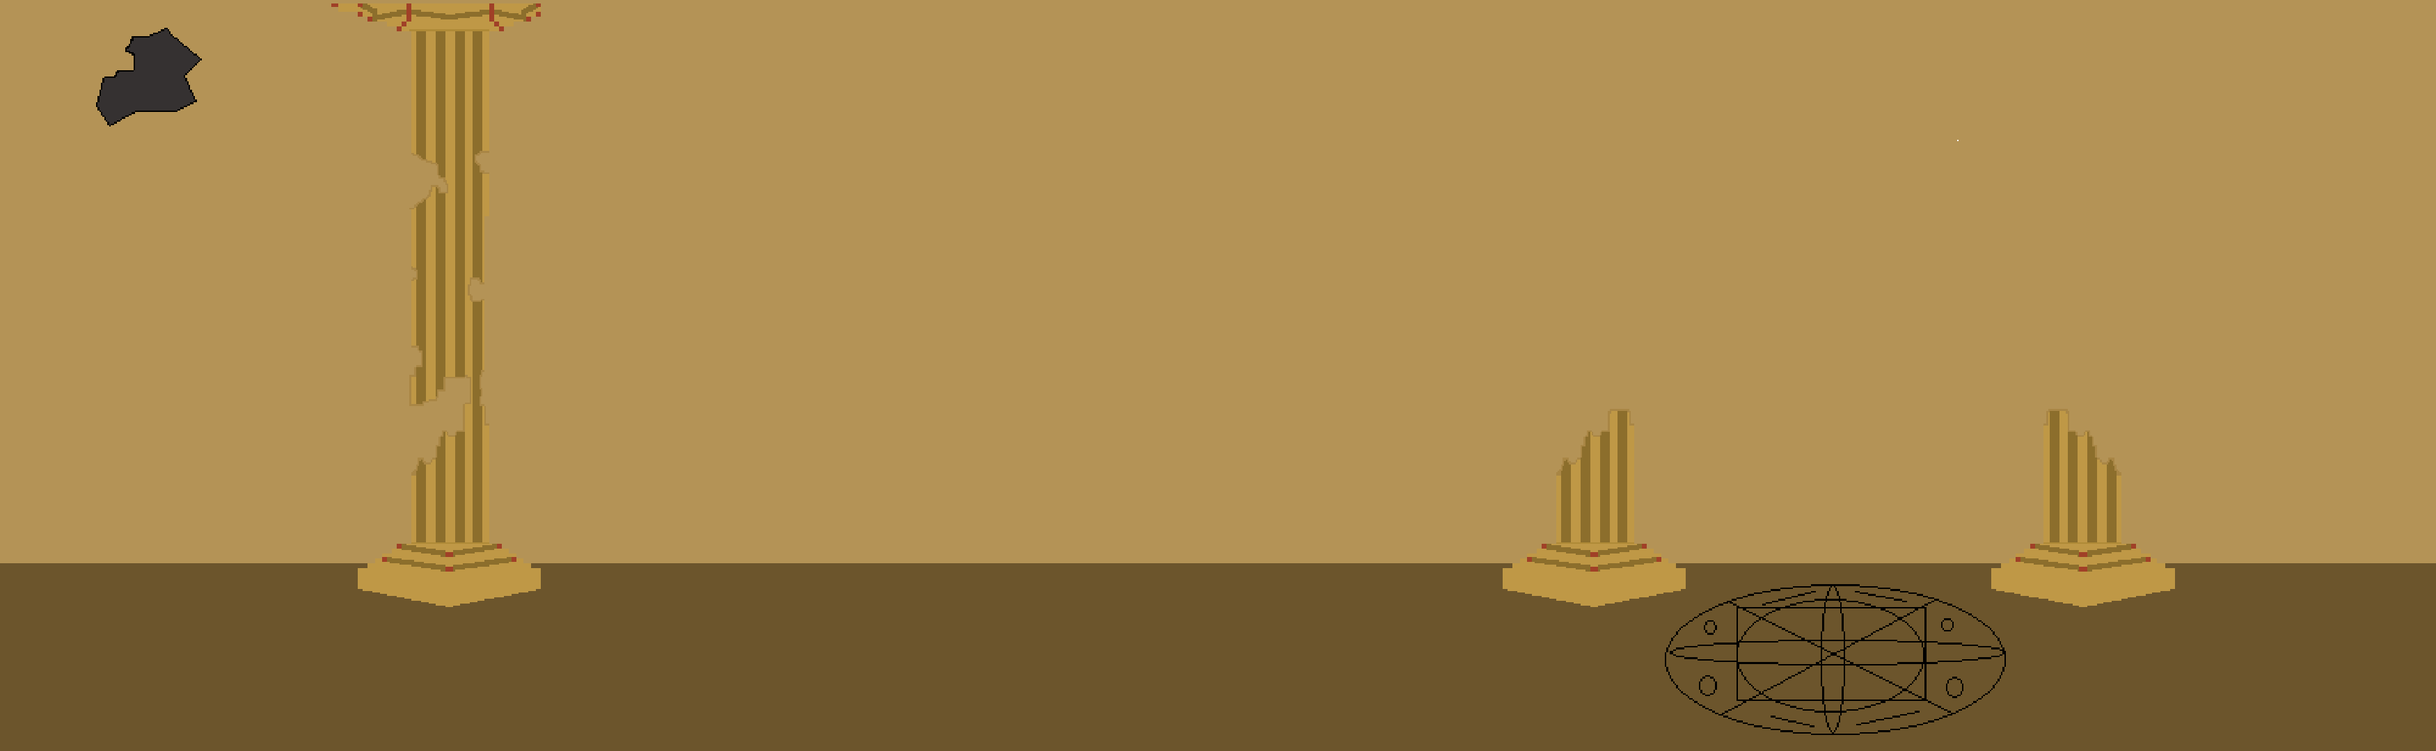
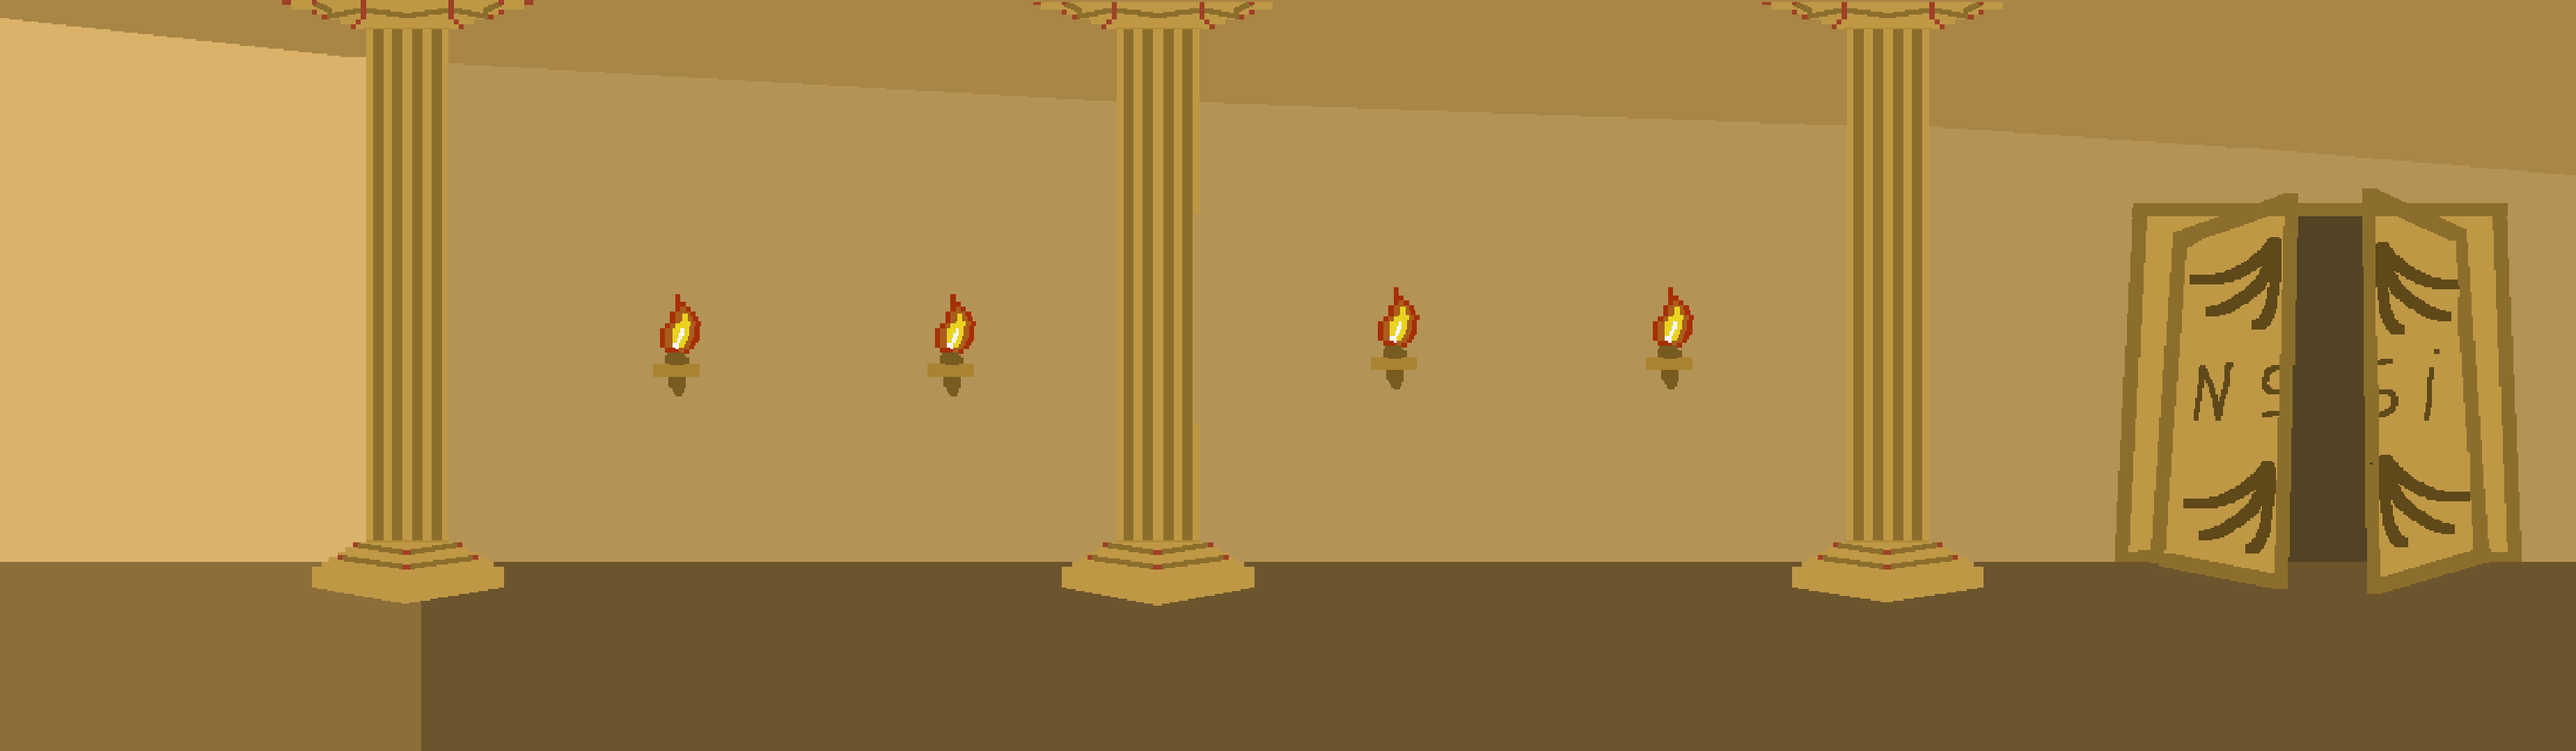
j'ai reussi a modifier le fond, et j'ai fait que ca ne fait pas de bug quand le person spawn

diff --git a/game.py b/game.py
@@ -1,4 +1,3 @@
-#importer le module pygame
 from playsound import playsound 
 import pygame, sys
 from os import listdir
@@ -8,8 +7,9 @@ from Personnage import Personnage
 from Background import Background
 from Mechant import Mechant
 from Jeu import *
-from momie import Momie 
+from momie import Momie
 from boss import Boss
+#from momie import Momie 
 pygame.init()
 pygame.font.init() 
 def jeuprincipal():
@@ -19,11 +19,11 @@ def jeuprincipal():
     JUMP_HEIGHT = 20
     Y_velocity = JUMP_HEIGHT 
 
-  
+
     #fenêtre du jeu
     pygame.display.set_caption("Lifenture")
     ecran = pygame.display.set_mode((width, height))
-    
+    my_font = pygame.font.SysFont('Comic Sans MS', 30, True)
     x_fond = 0
     y_fond = 0
     width_max = 1920
@@ -53,11 +53,11 @@ def jeuprincipal():
     player = Personnage(ecran)
     cactus = Mechant(ecran)
     back = Background(ecran)
-    momie = Momie(ecran)
+    momie = Momie(ecran )
     boss = Boss(ecran)
     #charger le jeu
     game = Jeu()
-    
+
     #vie du perso
     vies = 3
     
@@ -65,29 +65,36 @@ def jeuprincipal():
     current_map_id = 0
 
     # liste qui va conteir les truc a afficher (fond, mobs, joueur, items...)
-    entities = [back, player, cactus, momie, boss]
+    entities = [back, player, cactus, momie]
 
-
-    #fonction qui place les éléments au début :
-    back.START(player, cactus, momie)
     # placement de la caméra qu'on peut déplacer indépendamenr du joueur
     camera_offset = [0, 0]
-    back.Portes( 0, game, player, cactus, momie, ecran, camera_offset, width_max)
 
+    #Change la map/ place la map
+    def set_nd_map():
+        global current_map_id
+        camera_offset[0] = 0
+        camera_offset[1] = 0
+        current_map_id = 1
+        player.rect.x = 0
+        player.rect.y = 900
+        back.setImage(1)
+        player.min_y = 900
         
-
     # tant que le jeu est en marche...
     main_window = True 
     while main_window == True :
 
 
         #delta temps
-        delta_t = clock.tick(30)
+        delta_t = clock.tick(60)
 
         # mettre à jour l'écran
-   
+        pygame.display.flip()
 
 
+        if current_map_id == 2 :
+            entities.append(boss)
         
 
         #fermeture de la fenêtre
@@ -146,24 +153,62 @@ def jeuprincipal():
             entity.display(camera_offset)
 
         #fonction de porte
-        back.Portes( 1, game, player, cactus, momie, ecran, camera_offset, width_max)
+        #back.Portes( 1, game, player, cactus, momie, ecran, camera_offset, width_max)
         back.MOUV_MOMIE(momie)
-        """if cactus.rect.x > 0 :
-            cactus.LEFT()"""
-        
 
         
 
-        #back.ANIM_COEUR(player, cactus, camera_offset, vies)
+        if game.pressed.get(pygame.K_ESCAPE):
+            pygame.quit()
 
+        
+        # on déplace la caméra sur le joueur
+        camera_offset[0] = -(player.rect.x - width_max//2)
+
+    
+
+        #Montrer le personnage et mechant
+        for entity in entities:
+            entity.display(camera_offset)
+    
         # afficher les vies
 
         heart_image = pygame.image.load(HEALTH)
         def heart_imaging(x, y) :
             ecran.blit(heart_image, (x, y))
-
         
-        #data box to follow conditions to take out hearts
+
+
+
+
+        # si la map est 1 et que le joueur est a droite
+        if current_map_id == 0 and player.rect.x >= 2710 and player.rect.x <= 2770 :
+            text_surface = my_font.render(f"Appuyez sur enter pour enter", False, (0, 0, 0))
+            ecran.blit(text_surface, (player.rect.x + camera_offset[0] - 100, 600))
+            if game.pressed.get(pygame.K_RETURN):
+                camera_offset[0] = 0
+                camera_offset[1] = 0
+                current_map_id = 1
+                player.rect.x = 400
+                player.rect.y = 750
+                cactus.rect.x = 1110
+                cactus.rect.y = 750
+                back.setImage(1)
+                player.min_y = 750
+        #entrer dans la pyramide
+        elif current_map_id == 1 and 3050 <= player.rect.x <= 3250 :
+            text_surface = my_font.render(f"Appuyez sur enter pour enter", False, (0, 0, 0))
+            ecran.blit(text_surface, (player.rect.x + camera_offset[0] - 100, 600))
+            if game.pressed.get(pygame.K_RETURN):
+                camera_offset[0] = 0
+                camera_offset[1] = 0
+                current_map_id = 2
+                player.rect.x = 400
+                player.rect.y = 750
+                back.setImage(2)
+                player.min_y = 750
+            
+        #data box to follow coonditions to take out hearts
         a = player.rect.x
         b = player.rect.y
         c = cactus.rect.x
@@ -171,36 +216,55 @@ def jeuprincipal():
         rect1 = player.hitbox = (player.rect.x+camera_offset[0] - 10, player.rect.y+camera_offset[1], 64, 64)
         rect2 = cactus.hitbox = (cactus.rect.x+camera_offset[0] - 10, cactus.rect.y+camera_offset[1], 64, 64)
         
-        #print(a, b, c, d)
+        print(a, b, c, d)
         
         if c - 20 <= a + 20 <= c + 20 or c + 20 >= a - 20 >= c or c+20 > a >c-20 :
             if d - 32 <= b + 32 <= d + 32 or d + 32 >= b - 32 >= d or d+32 > b >d-32 :
-                vies -= 1
-                back.LES_COEURS(player, cactus, momie)
-                                            
-                
-                
-                print(vies)
 
 
-        if current_map_id == 2 :
-            boss.rect.x = 3000 
-            boss.rect.y = 750
-                            
-        print(vies)
-            #animation des cœurs :
+                vies -= 1 
+                if vies == 2:
+                    heart_imaging(1300, 10 )                                    
+                    current_map_id = 0
+                    player.rect.x = 400
+                    player.rect.y = 666
+                    back.setImage(0)
+                    player.min_y = 666
+                    cactus.rect.x = 1500
+                    cactus.rect.y = 666
+                    vies = 2
+                elif vies == 1:
+                    current_map_id = 0
+                    player.rect.x = 400
+                    player.rect.y = 666
+                    back.setImage(0)
+                    player.min_y = 666
+                    player.velocity_x = 13
+                    player.velocity_y = 5
+                    player.vitesse_x = 0
+                    player.vitesse_y = 0
+                    player.min_y = 666
+                    cactus.rect.x = 1500
+                    cactus.rect.y = 666
+                    vies = 1
+        #animation des cœurs :
         if vies == 3 :
             heart_imaging(player.rect.x + camera_offset[0]-15, player.rect.y + camera_offset[1]-35), heart_imaging(player.rect.x + camera_offset[0]+3, player.rect.y + camera_offset[1]-35), heart_imaging(player.rect.x + camera_offset[0]+20, player.rect.y + camera_offset[1]-35)
-        if vies == 2 :
+        elif vies == 2 :
             heart_imaging(player.rect.x + camera_offset[0]-15, player.rect.y + camera_offset[1]-35), heart_imaging(player.rect.x + camera_offset[0]+3, player.rect.y + camera_offset[1]-35)
         else :
             heart_imaging(player.rect.x + camera_offset[0]-15, player.rect.y + camera_offset[1]-35)
 
-        pygame.display.flip()
 
+                # mettre à jour l'écran
+            #fermeture de la fenêtre
+   
+            
     #fermeture de la fenêtre
     for event in pygame.event.get():
         if event.type == pygame.QUIT:
-            pygame.quit() 
+            pygame.quit()     
+
+
 
 jeuprincipal()

diff --git a/main.py b/main.py
@@ -56,9 +56,9 @@ while this == True :
                         pygame.quit()
                 if event.type == pygame.MOUSEBUTTONDOWN: 
                     print(Position_souris)
-                    if 600 < Position_souris[0] < 865 and  725 < Position_souris[1] <  825:
+                    if 735 < Position_souris[0] < 1090 and  645 < Position_souris[1] <  800:
                         return True
-                    if 951 < Position_souris[0] < 1204 and  725 < Position_souris[1] <  825:
+                    if 800 < Position_souris[0] < 1050 and  840 < Position_souris[1] <  940:
                         pygame.quit()
                         sys.exit()
             
@@ -71,7 +71,7 @@ while this == True :
         pygame.display.set_caption("DEATH_screen")
         #BG = pygame.display.set_mode(width, height)
         Death = pygame.image.load(DEATH)
-        Death = pygame.transform.scale(Death, (1920, 1080))
+        
         death = True
         
         while death == True :
@@ -79,16 +79,7 @@ while this == True :
             
             Position_souris = pygame.mouse.get_pos()
     
-            delta_t = clock.tick(60)
-            font = pygame.font.Font('freesansbold.ttf', 32)
-            text = font.render("Restart ?", True, (255, 125, 0))
-            textRect = text.get_rect()
-            textRect.center = (987, 701)
-            text2 = font.render("menu", True, (255, 255, 255))
-            textRect2 = text2.get_rect()
-            textRect2.center = (969, 865)
-            screen.blit(text, textRect)
-            screen.blit(text2, textRect2)
+            delta_t = clock.tick(30)
         
             for event in pygame.event.get():#quit
                 if event.type == pygame.QUIT:
@@ -101,10 +92,10 @@ while this == True :
                     if 772 < Position_souris[0] < 1175 and  645 < Position_souris[1] <  753:
                         return False
                     if 840 < Position_souris[0] < 1110 and  800 < Position_souris[1] <  916:
-                        return True    
+                        return True   
             pygame.display.flip()
-    
-    
+
+
 
 
 
@@ -124,8 +115,7 @@ while this == True :
         if death_screen() == False :
             jeuprincipal()
 
-        #pygame.display.flip()
-    pygame.display.flip()
+
 
 
 
@@ -136,5 +126,3 @@ for event in pygame.event.get():#quit
         if event.type == pygame.QUIT:
             pygame.quit()
             sys.exit()
-
-

diff --git a/Mechant.py b/Mechant.py
@@ -9,9 +9,8 @@ class Mechant(pygame.sprite.Sprite):
         self.tick = pygame.time.Clock().tick()
         self.image = pygame.image.load(ENNEMI_CACTUS)
         self.rect = self.image.get_rect()
-        self.rect.x = 1580
+        self.rect.x = 1500
         self.rect.y = 666
-
         self.current_image = 0
         self.animation = True
         self.actuel = "idle_ennemi1" 

diff --git a/momie.py b/momie.py
@@ -13,7 +13,7 @@ class Momie(pygame.sprite.Sprite):
         self.index = 0  # index de l'image actuelle dans la liste des images
 
         self.rect = self.image.get_rect()
-        self.rect.x = 2000
+        self.rect.x = 1789 
         self.rect.y = 666
         self.current_image = 0
         self.animation = True

diff --git a/Personnage.py b/Personnage.py
@@ -24,8 +24,8 @@ class Personnage(pygame.sprite.Sprite):
         self.rect = self.image.get_rect()
         self.on_ground = True
         self.rect.x = 800
-        self.rect.y = 666  
-
+        self.rect.y = 666       
+        self.min_y = 666
 
         self.current_image = 0
         self.animation = True

diff --git a/boss.py b/boss.py
@@ -11,7 +11,7 @@ class Boss(pygame.sprite.Sprite) :
         self.tick = pygame.time.Clock().tick()
         self.image = pygame.image.load(ENNEMI_CACTUS)
         self.rect = self.image.get_rect()
-    
+        self.rect.x = 1000
         self.current_image = 0
         self.animation = True 
        
